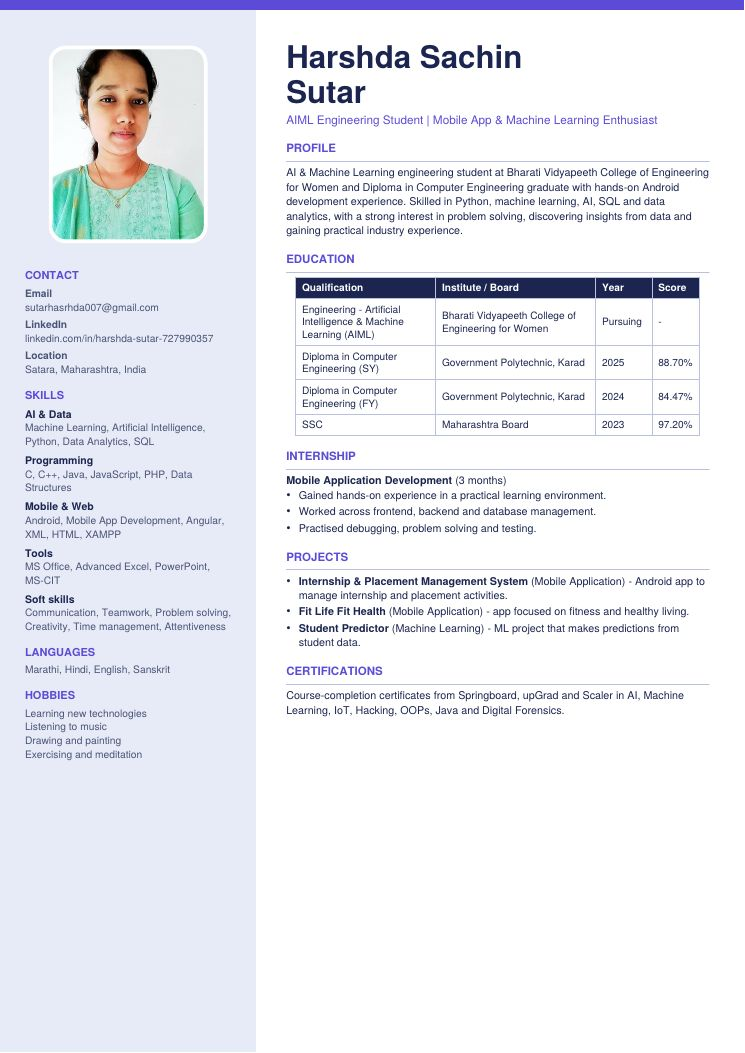
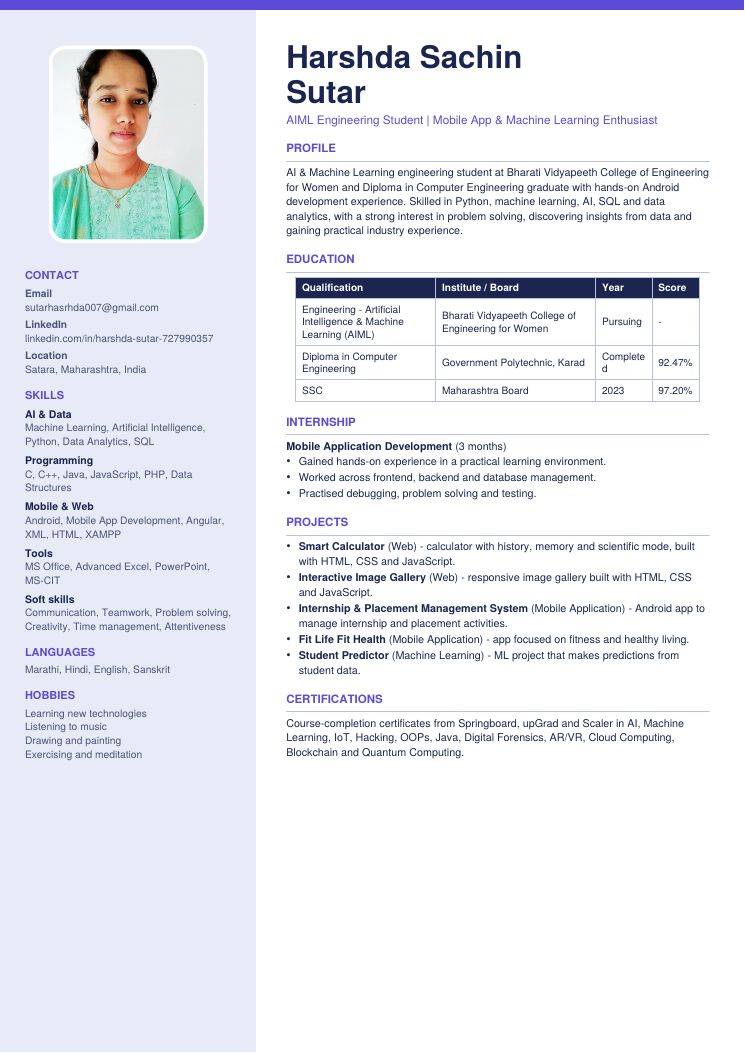
Add files via upload

Changed region(s): [[0.3705, 0.3343, 0.957, 0.7293]]

diff --git a/index.html b/index.html
@@ -81,6 +81,7 @@
       <div class="cards reveal">
         <article class="card"><h3>Strength</h3><p>A fast, hands-on learner who keeps exploring new technologies through courses and projects.</p></article>
         <article class="card"><h3>Value</h3><p>Problem solving first: break the problem down, test it, and debug patiently.</p></article>
+        <article class="card"><h3>Highlight</h3><p>92.47% in Diploma in Computer Engineering.</p></article>
         <article class="card"><h3>Highlight</h3><p>97.20% in SSC, Maharashtra Board (2023).</p></article>
         <article class="card"><h3>Highlight</h3><p>3-month Mobile Application Development internship.</p></article>
       </div>
@@ -110,10 +111,10 @@
     <h2 id="eduH" class="reveal">Education &amp; experience</h2>
     <div class="edu-grid">
       <article class="card reveal"><h3>Engineering: Artificial Intelligence &amp; Machine Learning</h3><p class="meta">Bharati Vidyapeeth College of Engineering for Women · Currently studying</p><p>Building a strong base in AI, machine learning, Python and data analytics.</p></article>
-      <article class="card reveal"><h3>Diploma in Computer Engineering</h3><p class="meta">Government Polytechnic, Karad · Completed</p><p>FY (2024): 84.47% · SY (2025): 88.70%</p><p>Key subjects</p><ul class="chips"><li>Data Structures</li><li>Computer Graphics</li><li>Linux</li><li>Operating Systems</li><li>Software Engineering</li><li>Data Analytics</li></ul></article>
+      <article class="card reveal"><h3>Diploma in Computer Engineering</h3><p class="meta">Government Polytechnic, Karad · Completed</p><p>Final score: 92.47%</p><p>Key subjects</p><ul class="chips"><li>Data Structures</li><li>Computer Graphics</li><li>Linux</li><li>Operating Systems</li><li>Software Engineering</li><li>Data Analytics</li></ul></article>
       <article class="card reveal"><h3>Secondary School Certificate (SSC)</h3><p class="meta">Maharashtra Board · 2023</p><p>Score: 97.20%</p></article>
       <article class="card reveal"><h3>Mobile Application Development Internship</h3><p class="meta">3 months</p><p>Gained hands-on experience in a practical learning environment: frontend, backend, database management, debugging, problem solving and testing.</p></article>
-      <article class="card reveal"><h3>Certifications</h3><p class="meta">Springboard · upGrad · Scaler</p><p>Course-completion certificates in:</p><ul class="chips"><li>Artificial Intelligence</li><li>Machine Learning</li><li>IoT</li><li>Hacking</li><li>OOPs</li><li>Java</li><li>Digital Forensics</li></ul></article>
+      <article class="card reveal"><h3>Certifications</h3><p class="meta">Springboard · upGrad · Scaler</p><p>Course-completion certificates in:</p><ul class="chips"><li>Artificial Intelligence</li><li>Machine Learning</li><li>IoT</li><li>Hacking</li><li>OOPs</li><li>Java</li><li>Digital Forensics</li><li>AR/VR</li><li>Cloud Computing</li><li>Blockchain</li><li>Quantum Computing</li></ul></article>
     </div>
   </div>
 </section>
@@ -125,7 +126,7 @@
       <div class="resume-grid">
         <div>
           <p>A one-page summary of my education, skills, internship and projects.</p>
-          <ul class="plain"><li>Education: Engineering (AIML) and Diploma in Computer Engineering</li><li>Core skills: Python, Machine Learning, AI, SQL, Data Analytics, Android</li><li>Experience: 3-month Mobile Application Development internship and 3 projects</li></ul>
+          <ul class="plain"><li>Education: Engineering (AIML) and Diploma in Computer Engineering</li><li>Core skills: Python, Machine Learning, AI, SQL, Data Analytics, Android</li><li>Experience: 3-month Mobile Application Development internship and 5 projects</li></ul>
           <div class="cta">
             <a class="btn primary" href="assets/resume.pdf" download data-resume><svg class="ico sm" aria-hidden="true"><use href="#i-down"/></svg>Download Resume</a>
             <a class="btn ghost" href="assets/resume.pdf" target="_blank" rel="noopener" data-resume data-view>View in new tab</a>

diff --git a/script.js b/script.js
@@ -15,6 +15,12 @@ const SKILLS = [
 ];
 // Add `github` and `demo` URLs to a project when you have them; buttons appear automatically.
 const PROJECTS = [
+  { title: 'Smart Calculator', category: 'Web', image: 'assets/projects/p4.svg', tech: ['HTML', 'CSS', 'JavaScript'],
+    description: 'A calculator with history, memory functions and a scientific mode.',
+    details: 'Built with HTML, CSS and vanilla JavaScript using a safe expression parser (no eval), with calculation history, memory functions, scientific mode and light/dark themes.', github: '', demo: 'projects/smartcalc/index.html' },
+  { title: 'Interactive Image Gallery', category: 'Web', image: 'assets/projects/p5.svg', tech: ['HTML', 'CSS', 'JavaScript'],
+    description: 'A responsive, interactive image gallery.',
+    details: 'A responsive image gallery built with HTML, CSS and JavaScript.', github: '', demo: '' },
   { title: 'Internship & Placement Management System', category: 'Mobile App', image: 'assets/projects/p1.svg', tech: ['Android', 'Mobile Application'],
     description: 'An Android app to manage internship and placement activities in one place.',
     details: 'A mobile application designed to bring internship and placement activities together in one easy-to-use app.', github: '', demo: '' },

diff --git a/style.css b/style.css
@@ -65,6 +65,7 @@ code{background:var(--card);border:1px solid var(--edge);border-radius:6px;paddi
 .card h3{margin-top:0}
 .about-grid,.contact-grid{display:grid;grid-template-columns:1fr 1fr;gap:clamp(24px,5vw,56px);align-items:start}
 .cards{display:grid;grid-template-columns:1fr 1fr;gap:14px}
+.cards .card:last-child:nth-child(odd){grid-column:1/-1}
 .chips{display:flex;flex-wrap:wrap;gap:8px}
 .chips li{padding:5px 12px;border-radius:999px;background:var(--card);border:1px solid var(--edge);font-size:.88rem}
 .meta{color:var(--acc);font-weight:600;font-size:.92rem}
